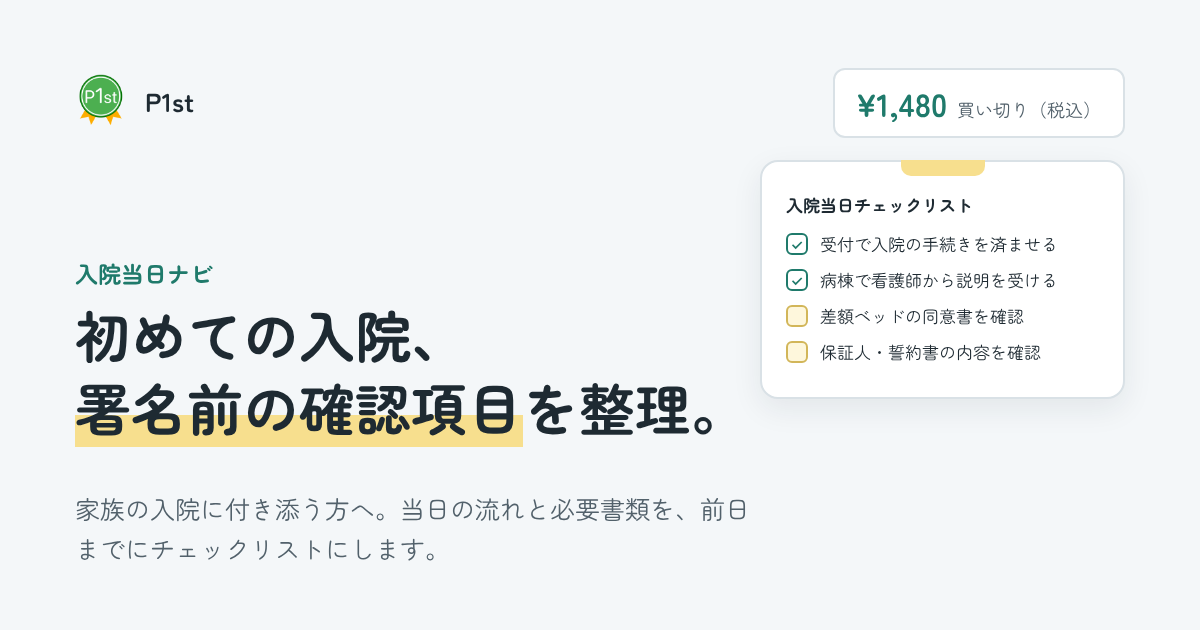
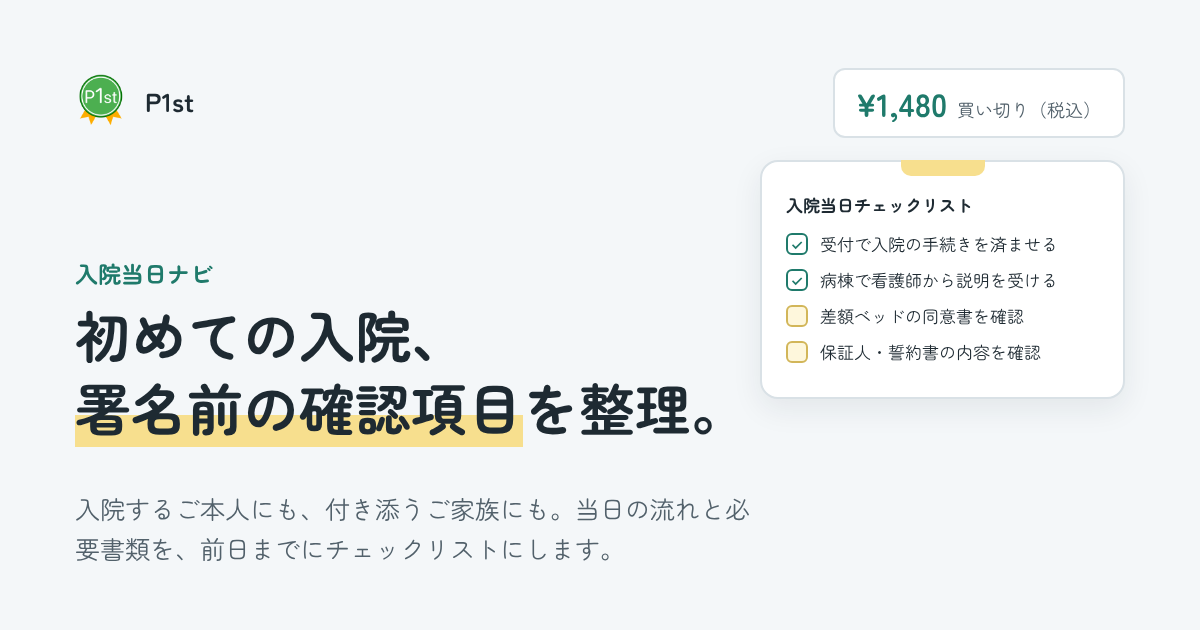
Reword 入院当日ナビ LP for both patients and accompanying family
Updates the title, meta, hero, audience list, root index card and OG
image so the LP addresses the patient themselves as well as family.

Refs #158

Changed region(s): [[0.0617, 0.7841, 0.6167, 0.9048]]

diff --git a/nyuinnavi/index.html b/nyuinnavi/index.html
@@ -14,19 +14,19 @@
 <meta name="viewport" content="width=device-width, initial-scale=1.0">
 <link rel="icon" type="image/png" href="../favicon.png">
 <link rel="apple-touch-icon" href="../favicon.png">
-<title>入院当日ナビ｜家族の初めての入院、当日の流れと署名前の確認項目を前日までに整理。</title>
-<meta name="description" content="入院の種類と病院の規模を選ぶと、当日の流れ・必要書類・差額ベッド同意書などの署名前に確認したい項目をチェックリストにします。家族の初めての入院に付き添う方向け。買い切り1,480円（税込）。一般的な情報の整理で、医療・法律の個別判断はしません。">
+<title>入院当日ナビ｜初めての入院、当日の流れと署名前の確認項目を前日までに整理。</title>
+<meta name="description" content="入院の種類と病院の規模を選ぶと、当日の流れ・必要書類・差額ベッド同意書などの署名前に確認したい項目をチェックリストにします。入院するご本人にも、付き添うご家族にも。買い切り1,480円（税込）。一般的な情報の整理で、医療・法律の個別判断はしません。">
 <meta property="og:type" content="website">
 <meta property="og:url" content="https://showcase.p1st.app/nyuinnavi/">
 <meta property="og:site_name" content="P1st Startup Showcase">
 <meta property="og:locale" content="ja_JP">
-<meta property="og:title" content="入院当日ナビ｜家族の初めての入院、当日の流れと署名前の確認項目を前日までに整理。">
+<meta property="og:title" content="入院当日ナビ｜初めての入院、当日の流れと署名前の確認項目を前日までに整理。">
 <meta property="og:description" content="入院の種類と病院の規模を選ぶだけで、当日の流れ・必要書類・署名前に確認したい項目をチェックリストに。買い切り1,480円（税込）。医療・法律の個別判断はしません。">
 <meta property="og:image" content="https://showcase.p1st.app/og/nyuinnavi.png">
 <meta property="og:image:width" content="1200">
 <meta property="og:image:height" content="630">
 <meta name="twitter:card" content="summary_large_image">
-<meta name="twitter:title" content="入院当日ナビ｜家族の初めての入院、当日の流れと署名前の確認項目を前日までに整理。">
+<meta name="twitter:title" content="入院当日ナビ｜初めての入院、当日の流れと署名前の確認項目を前日までに整理。">
 <meta name="twitter:description" content="入院の種類と病院の規模を選ぶだけで、当日の流れ・必要書類・署名前に確認したい項目をチェックリストに。買い切り1,480円（税込）。医療・法律の個別判断はしません。">
 <meta name="twitter:image" content="https://showcase.p1st.app/og/nyuinnavi.png">
 <link rel="preconnect" href="https://fonts.googleapis.com">
@@ -178,8 +178,8 @@
 <section class="hero" style="border-top:0">
   <div class="container hero-grid">
     <div>
-      <span class="eyebrow">家族の初めての入院に付き添う方へ</span>
-      <h1>家族の初めての入院、当日の流れと<mark>署名前の確認項目</mark>を、前日までに整理。</h1>
+      <span class="eyebrow">初めて入院する方と、付き添うご家族へ</span>
+      <h1>初めての入院、<span style="white-space:nowrap">当日の流れと</span><mark>署名前の確認項目</mark>を、前日までに整理。</h1>
       <p class="lead">入院の種類（予定入院・緊急）と病院の規模を選ぶと、<strong>当日の流れ、必要書類、差額ベッド同意書などの署名前に確認したい項目</strong>を、チェックリストにします。病院の窓口で何を聞けばよいかが、事前に分かります。</p>
       <div class="price-chip"><span class="tag">買い切り</span><span class="amt">¥1,480</span><span class="unit">（税込）</span></div>
       <div class="hero-cta">
@@ -288,7 +288,7 @@
         </ul>
         <div class="grp">署名前に確認したいこと</div>
         <ul class="chk">
-          <li class="warn">差額ベッド（特別療養環境室）<small>説明を受けた部屋か／1日の料金はいくらか／家族が希望した部屋か</small></li>
+          <li class="warn">差額ベッド（特別療養環境室）<small>説明を受けた部屋か／1日の料金はいくらか／ご自身・ご家族が希望した部屋か</small></li>
           <li class="warn">保証人<small>何を保証する書類か、説明を受けたか</small></li>
           <li class="warn">同意書・誓約書<small>書類の題名と内容の説明を受けたか</small></li>
           <li class="warn">医療費の負担を抑える制度（高額療養費、限度額適用認定証など）<small>加入している健康保険の窓口で事前に確認</small></li>
@@ -340,7 +340,8 @@
       <div class="card">
         <h3 class="lbl">向いている方</h3>
         <ul class="list">
-          <li>家族の初めての入院を控えた、付き添い・手続きの担当者（主に40〜60代）</li>
+          <li>初めての入院を控えた、入院するご本人</li>
+          <li>家族の入院に付き添う、手続きの担当者（主に40〜60代）</li>
           <li>急な入院で、当日の流れや書類が分からず不安な方</li>
           <li>署名の前に、何を確認すればよいかを知りたい方</li>
         </ul>
@@ -348,7 +349,7 @@
       <div class="card">
         <h3 class="lbl neg">向いていない方</h3>
         <ul class="list neg">
-          <li>入院される患者ご本人</li>
+          <li>病状や治療についての相談をしたい方（担当の医療機関へご相談ください）</li>
           <li>医療・介護の専門職の方</li>
           <li>小児の付き添い入院（別のサービスが必要です）</li>
         </ul>

diff --git a/index.html b/index.html
@@ -1112,8 +1112,8 @@ P1st <span>Startup</span> Showcase
 <div class="service-icon" style="background: #1F7A6B1A;">
 <svg xmlns="http://www.w3.org/2000/svg" width="48" height="48" viewBox="0 0 24 24" fill="none" stroke="#1F7A6B" stroke-width="2" stroke-linecap="round" stroke-linejoin="round"><rect x="3" y="4" width="18" height="17" rx="2"/><path d="M8 2v4M16 2v4"/><path d="m8.5 14 2.5 2.5 4.5-5"/></svg>
 </div>
-<h3 class="service-title">入院当日ナビ — 家族の初めての入院、当日の流れと署名前の確認項目を前日までに整理。</h3>
-<p class="service-desc">入院の種類と病院の規模を選ぶと、当日の流れ・必要書類・差額ベッド同意書などの署名前に確認したい項目をチェックリストにします。家族の初めての入院に付き添う方向け。買い切り1,480円（税込）。</p>
+<h3 class="service-title">入院当日ナビ — 初めての入院、当日の流れと署名前の確認項目を前日までに整理。</h3>
+<p class="service-desc">入院の種類と病院の規模を選ぶと、当日の流れ・必要書類・差額ベッド同意書などの署名前に確認したい項目をチェックリストにします。入院するご本人にも、付き添うご家族にも。買い切り1,480円（税込）。</p>
 <div class="service-meta">
 <span>当日の流れ・必要書類</span>
 <span>署名前の確認項目</span>
